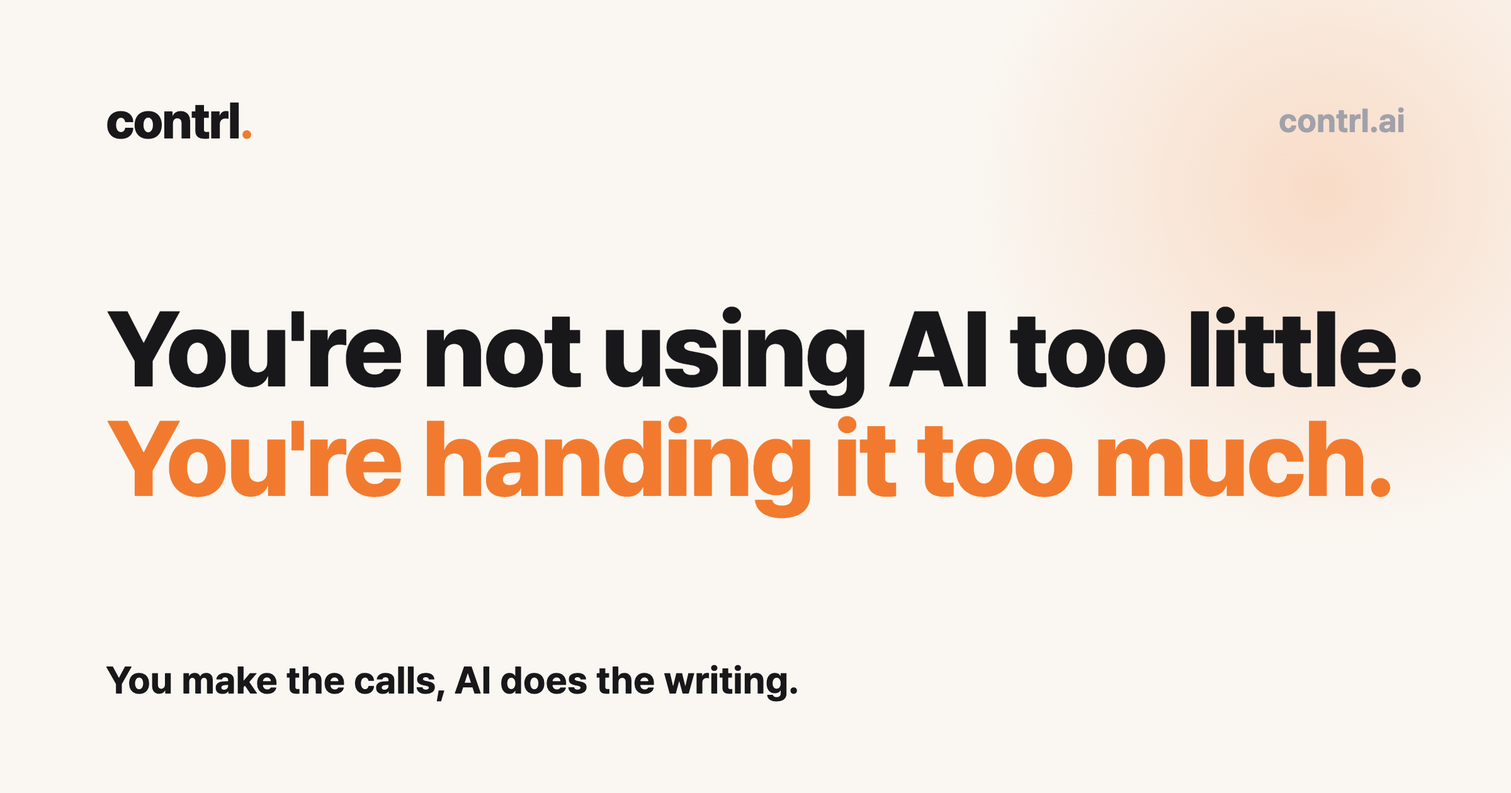
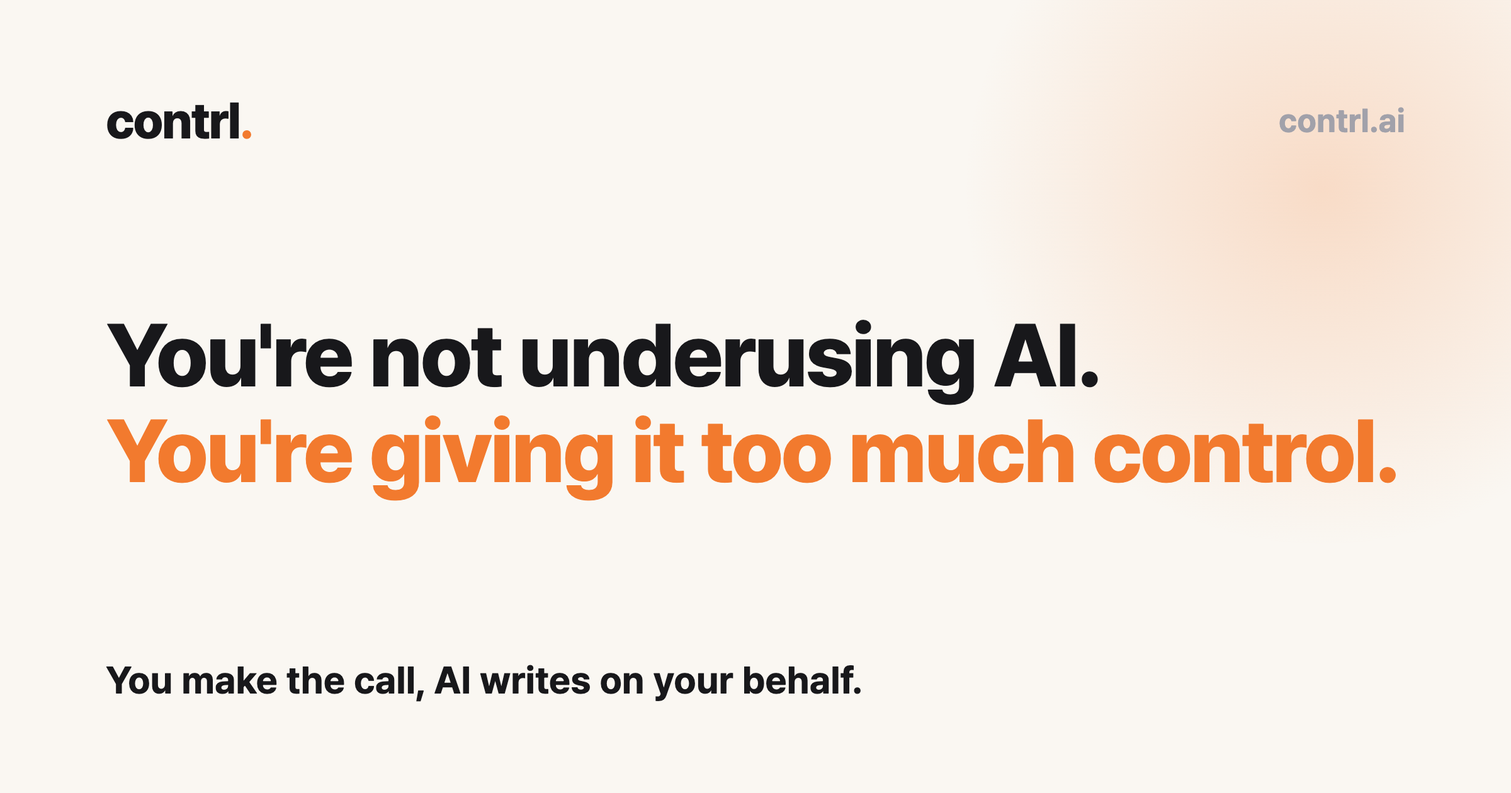
copy(en): apply Angela's English review
Hero 'You're not underusing AI. You're giving it too much control.', hero body, 'The common approach',
section title/close, card 3 title, 'Switched to a smarter model', why title/sub/close, how title + footer tag
('You make the decisions. AI writes on your behalf.'), how close, Q&A title. Page title, meta and OG card
updated to the new headline.

Changed region(s): [[0.0625, 0.3714, 0.9375, 0.65], [0.2812, 0.8357, 0.5625, 0.8976]]

diff --git a/index.html b/index.html
@@ -12,7 +12,7 @@
     </script>
     <meta charset="UTF-8">
     <meta name="viewport" content="width=device-width, initial-scale=1.0">
-    <title>contrl — AI proposals fail because you hand AI too much</title>
+    <title>contrl — You're giving AI too much control</title>
     <link rel="icon" type="image/svg+xml" href="/favicon.svg">
     <link rel="canonical" href="https://contrl.ai/">
     <link rel="alternate" hreflang="x-default" href="https://contrl.ai/">
@@ -22,18 +22,18 @@
 
     <meta property="og:type" content="website">
     <meta property="og:site_name" content="contrl">
-    <meta property="og:title" content="contrl — You're handing AI too much">
-    <meta property="og:description" content="AI proposals drift because AI fills in the decisions you should have made first. Contrl flips the order: you make the calls, AI does the writing. Join the waitlist.">
+    <meta property="og:title" content="contrl — You're giving AI too much control">
+    <meta property="og:description" content="AI proposals drift because AI fills in the decisions you should have made first. Contrl flips the order: you make the call, AI writes on your behalf. Join the waitlist.">
     <meta property="og:url" content="https://contrl.ai/">
-    <meta property="og:image" content="https://contrl.ai/og-image.png?v=2">
+    <meta property="og:image" content="https://contrl.ai/og-image.png?v=3">
     <meta property="og:image:width" content="1200">
     <meta property="og:image:height" content="630">
     <meta property="og:locale" content="en_US">
 
     <meta name="twitter:card" content="summary_large_image">
-    <meta name="twitter:title" content="contrl — You're handing AI too much">
-    <meta name="twitter:description" content="You make the calls, AI does the writing. Proposals that still carry your thinking. Join the waitlist.">
-    <meta name="twitter:image" content="https://contrl.ai/og-image.png?v=2">
+    <meta name="twitter:title" content="contrl — You're giving AI too much control">
+    <meta name="twitter:description" content="You make the call, AI writes on your behalf. Your ideas stay at the core. Join the waitlist.">
+    <meta name="twitter:image" content="https://contrl.ai/og-image.png?v=3">
 
     <script src="https://cdn.tailwindcss.com"></script>
     <script src="https://code.iconify.design/iconify-icon/2.3.0/iconify-icon.min.js"></script>
@@ -316,10 +316,10 @@
             <!-- Left: message + waitlist -->
             <div class="lg:col-span-5 hero-copy">
                 <h1 class="hero-enter hero-delay-1 display hero-h1 text-zinc-900">
-                    <span class="hero-line" data-i18n="h1a">You're not using</span>
-                    <span class="hero-line" data-i18n="h1b">AI too little.</span>
-                    <span class="hero-line text-accent" data-i18n="h1c">You're handing</span>
-                    <span class="hero-line text-accent" data-i18n="h1d">it too much.</span>
+                    <span class="hero-line" data-i18n="h1a">You're not</span>
+                    <span class="hero-line" data-i18n="h1b">underusing AI.</span>
+                    <span class="hero-line text-accent" data-i18n="h1c">You're giving it</span>
+                    <span class="hero-line text-accent" data-i18n="h1d">too much control.</span>
                 </h1>
                 <p class="hero-enter hero-delay-2 text-lg md:text-xl text-zinc-600 leading-relaxed max-w-md mb-8" data-i18n="hero_sub">
                     Most AI tools write your proposal before you've decided what it should say. Contrl flips that: <span class="font-semibold text-zinc-900">You make the calls, AI does the writing.</span>
@@ -650,8 +650,8 @@
 
     <script>
         // ---- i18n -----------------------------------------------------------------
-        const I18N = {"nav_why": {"en": "Why it fails", "ko": "왜 실패하나", "ja": "よくある課題", "zh": "为什么会失败"}, "nav_how": {"en": "How it works", "ko": "어떻게 다른가", "ja": "Contrlの特長", "zh": "如何运作"}, "nav_results": {"en": "Results", "ko": "성과", "ja": "導入事例", "zh": "成果"}, "h1a": {"en": "You're not using", "ko": "AI를 충분히", "ja": "AIを使わなすぎ", "zh": "问题不是"}, "h1b": {"en": "AI too little.", "ko": "쓰지 않아서가 아닙니다.", "ja": "ではない。", "zh": "AI用得太少，"}, "h1c": {"en": "You're handing", "ko": "오히려 너무 많이", "ja": "AIに任せすぎ", "zh": "而是交给AI的"}, "h1d": {"en": "it too much.", "ko": "내맡기는 게 문제입니다.", "ja": "なのだ。", "zh": "太多了。"}, "hero_sub": {"en": "Most AI tools write your proposal before you've decided what it should say. Contrl flips that: <span class=\"font-semibold text-zinc-900\">You make the calls, AI does the writing.</span>", "ko": "대부분의 AI 도구는 무엇을 말할지 정하기도 전에 제안서를 써 버립니다. Contrl은 순서를 뒤집습니다: <span class=\"font-semibold text-zinc-900\">사람이 정하고, AI가 씁니다.</span>", "ja": "多くのAIツールは、伝える内容が決まる前に提案書を書き始めてしまいます。Contrlはその順序を逆にしました。<span class=\"font-semibold text-zinc-900\">方針は人が決め、作成はAIが担います。</span>", "zh": "大多数AI工具在你还没想清楚要说什么之前，就把提案写完了。Contrl把顺序反过来：<span class=\"font-semibold text-zinc-900\">你来决定，AI来写。</span>"}, "join_btn": {"en": "Join the waitlist", "ko": "대기 명단 등록", "ja": "ウェイトリストに登録", "zh": "加入等候名单"}, "join_short": {"en": "Join", "ko": "등록", "ja": "登録", "zh": "加入"}, "success_long": {"en": "You're in line. Your spot number is on its way to your inbox.", "ko": "등록됐습니다. 대기 순번은 메일로 보내 드릴게요.", "ja": "登録完了。順番はメールでお知らせします。", "zh": "已加入。你的排位序号会发到邮箱。"}, "success_short": {"en": "You're in line.", "ko": "등록됐습니다.", "ja": "登録完了。", "zh": "已加入。"}, "err_email": {"en": "Please enter a valid email address.", "ko": "올바른 이메일 주소를 입력해 주세요.", "ja": "有効なメールアドレスを入力してください。", "zh": "请输入有效的邮箱地址。"}, "hero_note": {"en": "Access opens in order of signup, <span data-batch>25</span> teams a week. <button type=\"button\" class=\"wl-invite-link\" data-invite-toggle>Have an invite? Skip the line →</button>", "ko": "신청 순서대로, 매주 <span data-batch>25</span>팀씩 엽니다. <button type=\"button\" class=\"wl-invite-link\" data-invite-toggle>초대 코드가 있나요? 먼저 가입하기 →</button>", "ja": "登録順に、毎週<span data-batch>25</span>チームずつ開放します。<button type=\"button\" class=\"wl-invite-link\" data-invite-toggle>招待コードをお持ちの方はこちら →</button>", "zh": "按报名顺序开放，每周<span data-batch>25</span>个团队。<button type=\"button\" class=\"wl-invite-link\" data-invite-toggle>有邀请码？优先进入 →</button>"}, "invite_link_dark": {"en": "Have an invite? Skip the line →", "ko": "초대 코드가 있나요? 먼저 가입하기 →", "ja": "招待コードをお持ちの方はこちら →", "zh": "有邀请码？优先进入 →"}, "partners": {"en": "Startup partner of", "ko": "스타트업 파트너", "ja": "スタートアップパートナー", "zh": "创业合作伙伴"}, "bar_any": {"en": "Any AI deck generator", "ko": "범용 AI 장표 생성기", "ja": "一般的なAIスライド生成ツール", "zh": "通用AI PPT生成器"}, "fix_eyebrow": {"en": "The usual fix", "ko": "AI를 더 잘 써보려는 시도들", "ja": "AIをもっと活かそうとする試み", "zh": "把AI用得更好的尝试"}, "fix_title": {"en": "So everyone tries the same thing: <span class=\"text-accent\">more AI.</span>", "ko": "대부분 비슷하게 시도합니다: <span class=\"text-accent\">AI를 더 쓴다.</span>", "ja": "よくある対策は、どれも<span class=\"text-accent\">「AIにもっと任せる」</span>こと。", "zh": "大多数人的做法都差不多：<span class=\"text-accent\">再多用点AI。</span>"}, "fix1_t": {"en": "\"A better prompt should do it.\"", "ko": "\"프롬프트를 더 잘 짜면 되겠지.\"", "ja": "「プロンプトを工夫すればいい。」", "zh": "\"提示词写好点就行了。\""}, "fix2_t": {"en": "\"A better model should do it.\"", "ko": "\"더 좋은 모델을 쓰면 되겠지.\"", "ja": "「もっと良いモデルを使えばいい。」", "zh": "\"换个更强的模型就行了。\""}, "fix3_t": {"en": "\"All the files should be enough.\"", "ko": "\"자료를 다 넣어주면 되겠지.\"", "ja": "「資料を全部入れればいいはず。」", "zh": "\"把文件都丢进去就够了。\""}, "fix1_a": {"en": "Wrote a 400-word prompt that starts with \"You are an expert…\"", "ko": "\"너는 전문가야…\"로 시작하는 400단어짜리 프롬프트를 썼다", "ja": "「あなたは専門家です…」で始まる400字のプロンプトを書いた", "zh": "写了一段400字、以\"你是专家…\"开头的提示词"}, "fix1_b": {"en": "Saved the ones that worked as templates", "ko": "잘 나온 것을 템플릿으로 저장했다", "ja": "うまくいったものをテンプレートとして保存した", "zh": "把效果好的存成模板"}, "fix2_a": {"en": "Swapped in a smarter model when the output fell flat", "ko": "결과가 아쉬우면 더 똑똑한 모델로 바꿨다", "ja": "結果が物足りないと、より賢いモデルに切り替えた", "zh": "输出不行就换更聪明的模型"}, "fix2_b": {"en": "Upgraded to the top plan", "ko": "최상위 요금제로 올렸다", "ja": "最上位プランにアップグレードした", "zh": "升级到最高档套餐"}, "fix3_a": {"en": "Dropped in the entire project folder", "ko": "프로젝트 폴더를 통째로 넣었다", "ja": "プロジェクトフォルダを丸ごと入れた", "zh": "把整个项目文件夹都拖了进去"}, "fix3_b": {"en": "Fed it past winning bids and hoped for a repeat", "ko": "과거 낙찰 제안서를 넣고 비슷하게 나오길 기대했다", "ja": "過去の受注提案書を入れて、同じ結果を期待した", "zh": "喂给它过去中标的方案，指望它照着来"}, "fix_plan": {"en": "Change plan", "ko": "요금제 변경", "ja": "プラン変更", "zh": "更改套餐"}, "fix_upgraded": {"en": "✓ Upgraded · Top-tier model", "ko": "✓ 업그레이드됨 · 최상위 모델", "ja": "✓ アップグレード済み・最上位モデル", "zh": "✓ 已升级 · 顶级模型"}, "fix_more": {"en": "+44 more", "ko": "+44개 더", "ja": "+44件", "zh": "还有44个"}, "fix_gauge": {"en": "More than it can actually read.", "ko": "실제로 읽을 수 있는 양을 넘었습니다.", "ja": "実際に読める量を超えている。", "zh": "超出了它真正能读的量。"}, "fix_close": {"en": "Sound familiar? <span class=\"text-zinc-500 font-semibold\">Every one of these hands AI <em class=\"not-italic text-accent\">more</em>.</span>", "ko": "공감하시나요? <span class=\"text-zinc-500 font-semibold\">전부 AI에게 <em class=\"not-italic text-accent\">더</em> 맡기는 방법입니다.</span>", "ja": "心当たりはありませんか？<span class=\"text-zinc-500 font-semibold\">いずれも、AIに任せる範囲を<em class=\"not-italic text-accent\">広げる</em>方法です。</span>", "zh": "有没有同感？<span class=\"text-zinc-500 font-semibold\">每一个都是把<em class=\"not-italic text-accent\">更多</em>交给AI。</span>"}, "why_title": {"en": "AI writes the answer <span class=\"text-accent\">before you've thought about the question.</span>", "ko": "AI는 <span class=\"text-accent\">질문을 생각하기도 전에</span> 답을 써 버립니다.", "ja": "AIは<span class=\"text-accent\">問いを考える前に</span>答えを書いてしまう。", "zh": "AI在<span class=\"text-accent\">你还没想清楚问题之前</span>就写好了答案。"}, "why_sub": {"en": "Three decisions only you can make. Leave them blank, and AI fills them in.", "ko": "사람만 내려야 하는 판단이 있습니다. AI에게 맡기면 산으로 갑니다.", "ja": "提案書には、人にしか決められない3つの判断があります。ここが空白のままだと、AIが代わりに埋めてしまいます。", "zh": "有些判断只能由人来做。交给AI，就跑偏了。"}, "why1_h": {"en": "<i>1</i>Off the point", "ko": "<i>1</i>논점 이탈", "ja": "<i>1</i>論点ずれ", "zh": "<i>1</i>跑题"}, "why2_h": {"en": "<i>2</i>Generic", "ko": "<i>2</i>평이함", "ja": "<i>2</i>ありきたり", "zh": "<i>2</i>空泛"}, "why3_h": {"en": "<i>3</i>Scattered", "ko": "<i>3</i>산만함", "ja": "<i>3</i>総花的", "zh": "<i>3</i>零散"}, "why1_p": {"en": "<b>Blank:</b> what the client actually wants.<br><b>AI fills in:</b> any vendor's story.", "ko": "<b>비워 둔 것:</b> 발주처가 정말 원하는 것.<br><b>AI가 채운 것:</b> 아무 업체나 할 수 있는 이야기.", "ja": "<b>決めていないこと：</b>顧客が本当に求めているもの。<br><b>AIが書いたこと：</b>どの会社でも言える話。", "zh": "<b>空着的：</b>客户真正想要什么。<br><b>AI填的：</b>随便哪家供应商的说辞。"}, "why2_p": {"en": "<b>Blank:</b> the edge only you have.<br><b>AI fills in:</b> \"extensive experience.\"", "ko": "<b>비워 둔 것:</b> 우리만의 강점.<br><b>AI가 채운 것:</b> \"풍부한 경험.\"", "ja": "<b>決めていないこと：</b>自社だけの強み。<br><b>AIが書いたこと：</b>「豊富な経験」。", "zh": "<b>空着的：</b>只有你有的优势。<br><b>AI填的：</b>\"丰富的经验\"。"}, "why3_p": {"en": "<b>Blank:</b> the one point this slide makes.<br><b>AI fills in:</b> seven topics and a made-up 40%.", "ko": "<b>비워 둔 것:</b> 이 장이 말하는 한 가지.<br><b>AI가 채운 것:</b> 주제 일곱 개와 지어낸 40%.", "ja": "<b>決めていないこと：</b>このページが伝える一点。<br><b>AIが書いたこと：</b>7つの話題と根拠のない40%。", "zh": "<b>空着的：</b>这一页要说的那一个点。<br><b>AI填的：</b>七个主题和一个编出来的40%。"}, "why_close": {"en": "A bid runs 50–100 slides. <span class=\"text-zinc-500 font-semibold\">The more you hand off, the further it drifts.</span>", "ko": "입찰 제안서는 50–100장입니다. <span class=\"text-zinc-500 font-semibold\">더 많이 맡길수록, 더 멀리 벗어납니다.</span>", "ja": "入札提案書は50〜100ページ。<span class=\"text-zinc-500 font-semibold\">任せるほど、ずれていく。</span>", "zh": "一份投标书有50–100页。<span class=\"text-zinc-500 font-semibold\">交出去越多，偏得越远。</span>"}, "band_eyebrow": {"en": "The problem", "ko": "문제", "ja": "問題", "zh": "问题"}, "band_title": {"en": "AI fills in the proposal before anyone's thought it through.<br class=\"hidden md:block\"> So we flipped the order.", "ko": "사람이 고민하기도 전에 AI가 제안서를 채워 버립니다.<br class=\"hidden md:block\"> 그래서 순서를 뒤집었습니다.", "ja": "人が考える前に、AIが提案書を埋めてしまう。<br class=\"hidden md:block\"> だから、順序を逆にした。", "zh": "人还没想清楚，AI就把提案填满了。<br class=\"hidden md:block\"> 所以我们把顺序反过来。"}, "how_eyebrow": {"en": "How Contrl works", "ko": "Contrl은 이렇게 합니다", "ja": "Contrlの仕組み", "zh": "Contrl如何运作"}, "how_title": {"en": "<span class=\"text-accent\">You decide.</span> AI writes the rest.", "ko": "<span class=\"text-accent\">사람이 정하고,</span> 나머지는 AI가 씁니다.", "ja": "<span class=\"text-accent\">あなたが決め、</span>残りはAIが書く。", "zh": "<span class=\"text-accent\">你来决定，</span>剩下的AI来写。"}, "how_cap": {"en": "A real 100-page bid. Three decisions in chat → 17 pages written → one note rewrites page 1.", "ko": "실제 100장짜리 입찰. 채팅으로 결정 3개 → 17장 작성 → 한 줄로 1장 수정.", "ja": "実際の100ページの入札。チャットで3つ決める → 17ページ作成 → ひと言で1ページ修正。", "zh": "真实的100页投标。聊天里做3个决定 → 写出17页 → 一句话改写第1页。"}, "chk1": {"en": "<i>✓</i>What the client really wants", "ko": "<i>✓</i>발주처가 정말 원하는 것", "ja": "<i>✓</i>顧客が本当に求めるもの", "zh": "<i>✓</i>客户真正想要什么"}, "chk2": {"en": "<i>✓</i>The edge your competitors don't have", "ko": "<i>✓</i>경쟁사엔 없는 우리만의 강점", "ja": "<i>✓</i>競合にはない自社の強み", "zh": "<i>✓</i>对手没有的优势"}, "chk3": {"en": "<i>✓</i>The one point each slide makes", "ko": "<i>✓</i>장마다 전달할 한마디", "ja": "<i>✓</i>各ページが伝える一点", "zh": "<i>✓</i>每一页要说的那一个点"}, "how_close": {"en": "Every slide AI wrote still carries <span class=\"text-accent\">your thinking.</span>", "ko": "AI가 쓴 장표에도 <span class=\"text-accent\">사람의 고민</span>이 남습니다.", "ja": "AIが書いたページにも<span class=\"text-accent\">あなたの考え</span>が残る。", "zh": "AI写的每一页，依然带着<span class=\"text-accent\">你的思考。</span>"}, "qa_eyebrow": {"en": "On presentation day", "ko": "발표장에서", "ja": "発表の場で", "zh": "答辩现场"}, "qa_title": {"en": "You decided it. So you can <span class=\"text-accent\">say it in your own words.</span>", "ko": "직접 정한 것이니, <span class=\"text-accent\">내 생각 그대로 말하면 됩니다.</span>", "ja": "自分で決めたから、<span class=\"text-accent\">自分の言葉でそのまま話せる。</span>", "zh": "是你定的，所以<span class=\"text-accent\">用自己的话讲就行。</span>"}, "qa_sub": {"en": "No cramming your own proposal the night before. Every slide carries a decision you made — when the evaluator asks, the answer is already yours.", "ko": "발표 전날 자기 제안서를 다시 공부할 필요가 없습니다. 장마다 내가 내린 판단이 들어 있으니, 평가위원이 물으면 그 판단을 그대로 말하면 됩니다.", "ja": "前夜に自分の提案書を読み直す必要はない。どのページにも自分の判断が入っているから、審査員に聞かれたら、その判断をそのまま話せばいい。", "zh": "不用在前一晚临时抱佛脚。每一页都带着你做过的判断——评审一问，答案本来就是你的。"}, "qa_ask": {"en": "Evaluator asks", "ko": "평가위원", "ja": "審査員", "zh": "评审问"}, "qa_ans": {"en": "You answer", "ko": "발표자", "ja": "発表者", "zh": "你答"}, "qa1_q": {"en": "\"Why is this approach right for our project?\"", "ko": "\"왜 이 방식이 우리 사업에 맞습니까?\"", "ja": "「なぜこの方式が私たちの事業に合うのですか？」", "zh": "\"为什么这个方案适合我们的项目？\""}, "qa1_a": {"en": "\"You had two outages last year. That's why we lead with zero-downtime operations.\"", "ko": "\"작년에 운영 중단이 두 번 있었습니다. 그래서 무중단 운영부터 제안했습니다.\"", "ja": "「昨年、システム停止が2回ありました。だから無停止運用を最初に据えています。」", "zh": "\"去年你们停机了两次。所以我们把零停机运维放在最前面。\""}, "qa1_s": {"en": "← The win theme you set", "ko": "← 직접 정한 Win Theme", "ja": "← あなたが決めたWin Theme", "zh": "← 你定的Win Theme"}, "qa2_q": {"en": "\"What makes you different from the other bidders?\"", "ko": "\"다른 회사와 뭐가 다릅니까?\"", "ja": "「他社と何が違うのですか？」", "zh": "\"你们和其他投标方有什么不同？\""}, "qa2_a": {"en": "\"We've run three systems like this with zero downtime. Same playbook here.\"", "ko": "\"동종 시스템 3건을 무중단으로 운영했습니다. 그 방식 그대로 가져옵니다.\"", "ja": "「同種のシステム3件を無停止で運用しました。今回も同じ体制で臨みます。」", "zh": "\"我们已经零停机运营过三个同类系统。这里用同一套打法。\""}, "qa2_s": {"en": "← The track record you picked", "ko": "← 직접 고른 실적", "ja": "← あなたが選んだ実績", "zh": "← 你挑的业绩"}, "qa3_q": {"en": "\"In one sentence: what do we get?\"", "ko": "\"한마디로, 우리가 얻는 게 뭡니까?\"", "ja": "「一言で言うと、私たちは何を得られますか？」", "zh": "\"一句话：我们能得到什么？\""}, "qa3_a": {"en": "\"30% fewer people to run it.\"", "ko": "\"운영 인력 30% 절감입니다.\"", "ja": "「運用人員を30%削減できます。」", "zh": "\"运维人力减少30%。\""}, "qa3_s": {"en": "← The one point you gave that slide", "ko": "← 그 장에 직접 정한 한마디", "ja": "← そのページに決めた一点", "zh": "← 你给那一页定的那一个点"}, "case_eyebrow": {"en": "Case study", "ko": "도입 사례", "ja": "導入事例", "zh": "客户案例"}, "case_title": {"en": "<span class=\"text-accent\">59%</span> more contract value in four quarters.", "ko": "도입 후 4개 분기 만에 수주 금액 <span class=\"text-accent\">59%</span> 증가.", "ja": "導入後4四半期で受注金額<span class=\"text-accent\">59%</span>増。", "zh": "四个季度内合同金额增长<span class=\"text-accent\">59%</span>。"}, "case_p": {"en": "The four quarters after rollout (Q3 2025–Q2 2026) vs. the same quarters a year earlier, from their bid dashboard. They bid more, focused on the ones they could win, and both win rate and contract value climbed.", "ko": "도입 후 4개 분기(2025 Q3–2026 Q2)를 전년 같은 분기와 비교, 입찰 실적 대시보드 기준. 더 많이 투찰하고 이길 수 있는 건에 집중해 승률과 수주 금액이 함께 올랐습니다.", "ja": "導入後の4四半期（2025年Q3〜2026年Q2）を前年同期と比較。より多く入札し、勝てる案件に集中した結果、勝率と受注金額がともに上昇。※同社の入札管理ダッシュボードのデータに基づく", "zh": "上线后四个季度（2025 Q3–2026 Q2）与上年同期对比，数据来自其投标看板。投得更多、专注能赢的标，中标率和合同金额一起上升。"}, "case_note": {"en": "Named top project at Company T's internal \"Sales Guru\" showcase and held up company-wide as the flagship AI case. <span class=\"text-zinc-400\">(Platum, Aug 2025)</span>", "ko": "T사 사내 세일즈 박람회 \"Sales Guru\"에서 전체 프로젝트 1위, 전사 AI 혁신 대표 사례로 소개. <span class=\"text-zinc-400\">(플래텀, 2025.08)</span>", "ja": "T社の社内セールス発表会「Sales Guru」で全プロジェクト1位、全社のAI活用代表事例として紹介。<span class=\"text-zinc-400\">（Platum、2025年8月）</span>", "zh": "在T公司内部\"Sales Guru\"销售展示会上获评第一，并作为全公司AI标杆案例推广。<span class=\"text-zinc-400\">（Platum，2025年8月）</span>"}, "k1": {"en": "Bids submitted", "ko": "투찰 건수", "ja": "入札件数", "zh": "投标数"}, "k2": {"en": "Bids won", "ko": "낙찰 건수", "ja": "受注件数", "zh": "中标数"}, "k3": {"en": "Win rate", "ko": "승률", "ja": "勝率", "zh": "中标率"}, "k4": {"en": "Contract value", "ko": "수주 금액", "ja": "受注金額", "zh": "合同金额"}, "k4s": {"en": "Four quarters vs. prior year", "ko": "4개 분기, 전년 대비", "ja": "4四半期、前年比", "zh": "四个季度，同比"}, "join_eyebrow": {"en": "Early access", "ko": "얼리 액세스", "ja": "アーリーアクセス", "zh": "抢先体验"}, "join_title": {"en": "Access opens in order.<br>Get in line early.", "ko": "신청 순서대로 초대드립니다.<br>지금 바로 이메일 입력해주세요", "ja": "登録順にご招待します。<br>今すぐメールアドレスをご登録ください。", "zh": "按报名顺序邀请。<br>现在就填上邮箱。"}, "join_sub": {"en": "We open <span data-batch>25</span> seats a week, first come first served. Members get 3 invites — an invite moves you to the front.", "ko": "매주 <span data-batch>25</span>분께 선착순으로 초대드립니다. 가입하신 뒤 추가 초대장 3장을 드립니다.", "ja": "毎週<span data-batch>25</span>チームずつ、先着順にご案内します。ご利用開始後、同僚の方を招待できる招待コードを3つお送りします。", "zh": "每周按先后顺序邀请<span data-batch>25</span>位。加入后，再送你3张邀请函。"}, "faq1_q": {"en": "Will it match our design?", "ko": "우리 회사 디자인 그대로 나오나요?", "ja": "自社のデザインで出力されますか？", "zh": "会用我们自己的设计吗？"}, "faq1_a": {"en": "Yes. Contrl builds on your existing design system — the layouts, diagrams, and language from your past proposals — and exports to PowerPoint (.pptx). Every page comes with speaker notes and source citations.", "ko": "네. 과거 제안서의 레이아웃·도식·표현을 그대로 쓰는 디자인 시스템 위에서 만들고, PowerPoint(.pptx)로 내보냅니다. 장마다 발표 스크립트와 근거 출처가 함께 나옵니다.", "ja": "はい。過去の提案書のレイアウト・図・表現を活かした自社デザインシステムで作成し、PowerPoint（.pptx）で出力します。各ページに発表者ノートと出典（根拠資料）が付きます。", "zh": "是的。Contrl基于你们现有的设计系统——过往提案的版式、图表和用语——并导出为PowerPoint（.pptx）。每一页都附带讲稿和资料来源。"}, "faq2_q": {"en": "What about our data?", "ko": "데이터 보안은요?", "ja": "データの取り扱いは安全ですか？", "zh": "我们的数据安全吗？"}, "faq2_a": {"en": "Your files never leave your machine. Nothing gets uploaded to the cloud, and nothing about your proposals is shared outside your company.", "ko": "파일은 사용자 컴퓨터를 벗어나지 않습니다. 클라우드에 올라가지 않고, 제안서 내용이 회사 밖으로 나가지 않습니다.", "ja": "ファイルがお使いのPCの外に出ることはありません。クラウドにアップロードされず、提案内容が社外に共有されることもありません。", "zh": "你的文件不会离开你的电脑。不上传云端，提案内容也不会被分享到公司之外。"}, "faq3_q": {"en": "Who's this for?", "ko": "누구를 위한 제품인가요?", "ja": "どのような方に向いていますか？", "zh": "这是给谁用的？"}, "faq3_a": {"en": "Anyone who writes bids and proposals — especially the team lead who ends up rewriting whatever AI (or the new hire) produced. You make the calls. Contrl does the writing.", "ko": "입찰 제안서를 쓰는 누구나. 특히 AI나 신입이 만든 걸 결국 다시 쓰게 되는 팀장님께 맞습니다. 결정은 사람이, 작성은 Contrl이 합니다.", "ja": "入札・提案書を書くすべての人へ。特に、AIや新人が作ったものを結局書き直すことになるチームリーダーに。決めるのはあなた、書くのはContrl。", "zh": "所有写标书和提案的人——尤其是那个最后得把AI（或新人）写的东西重写一遍的团队负责人。你做决定，Contrl来写。"}, "faq4_q": {"en": "When does access open?", "ko": "언제 쓸 수 있나요?", "ja": "いつから利用できますか？", "zh": "什么时候能用？"}, "faq4_a": {"en": "In order of signup, <span data-batch>25</span> teams a week. You'll get your spot number when you join and an email when your seat opens. If someone inside sends you an invite, you move to the front.", "ko": "신청 순서대로 매주 <span data-batch>25</span>팀씩 엽니다. 등록하면 순번을 받고, 자리가 열리면 메일로 알려 드립니다. 이미 쓰고 있는 멤버가 초대하면 맨 앞으로 갑니다.", "ja": "登録順に毎週<span data-batch>25</span>チームずつ開放します。登録時に順番をお知らせし、ご案内の準備が整い次第、メールでお知らせします。利用中のメンバーから招待があれば、優先的にご案内します。", "zh": "按报名顺序，每周<span data-batch>25</span>个团队。加入时会告诉你排位序号，名额开放时发邮件通知。如果有内部成员邀请你，就直接排到最前面。"}, "footer_tag": {"en": "You decide. AI writes the rest.", "ko": "사람이 정하고, 나머지는 AI가 씁니다.", "ja": "あなたが決め、残りはAIが書く。", "zh": "你来决定，剩下的AI来写。"}, "ph_email": {"en": "Email", "ko": "이메일", "ja": "メールアドレス", "zh": "邮箱"}, "ph_invite": {"en": "Invite code", "ko": "초대 코드", "ja": "招待コード", "zh": "邀请码"}, "fix_prompt": {"en": "You are a proposal PM with |20 years| of experience. Cover every evaluation criterion and write |50 slides| with tables and diagrams…", "ko": "너는 |20년 차| 제안 PM이야. 평가항목을 빠짐없이 반영해서, 표와 도식을 넣어 |50장|으로 써 줘…", "ja": "あなたは|20年|のキャリアを持つ提案PMです。評価項目をすべて反映し、表と図を入れて|50ページ|で書いてください…", "zh": "你是一位有|20年|经验的提案PM。覆盖所有评分项，加上表格和图表，写|50页|…"}, "err_generic": {"en": "Something went wrong. Please try again in a moment.", "ko": "문제가 생겼습니다. 잠시 후 다시 시도해 주세요.", "ja": "エラーが発生しました。しばらくしてからもう一度お試しください。", "zh": "出了点问题，请稍后再试。"}, "success_pos": {"en": "You're #{n} in line.", "ko": "대기 명단 {n}번째로 등록됐습니다.", "ja": "ウェイトリスト{n}番目に登録されました。", "zh": "你已加入等候名单，排在第{n}位。"}, "success_inv": {"en": "Your invite moved you to the front.", "ko": "초대 덕분에 맨 앞으로 왔습니다.", "ja": "招待により最前列に移動しました。", "zh": "邀请让你直接排到了最前面。"}, "success_mail": {"en": "Confirmation sent to your inbox.", "ko": "확인 메일을 보내 드렸습니다.", "ja": "確認メールをお送りしました。", "zh": "确认邮件已发送到你的邮箱。"}, "invite_check": {"en": "Check", "ko": "확인", "ja": "確認", "zh": "验证"}, "invite_empty": {"en": "Enter an invite code first.", "ko": "초대 코드를 입력해 주세요.", "ja": "招待コードを入力してください。", "zh": "请先输入邀请码。"}, "invite_none": {"en": "That code isn't recognized. You can still join the regular line.", "ko": "등록된 코드가 아닙니다. 일반 순번으로는 바로 등록할 수 있습니다.", "ja": "登録されていないコードです。通常の順番でご登録いただけます。", "zh": "未找到该邀请码。你仍可按正常顺序加入。"}, "invite_ok": {"en": "Invite accepted — you'll go to the front of the line.", "ko": "유효한 초대 코드입니다. 맨 앞으로 들어갑니다.", "ja": "有効な招待コードです。最前列に入ります。", "zh": "邀请码有效，你将排到最前面。"}, "invite_ignored": {"en": "(The invite code wasn't recognized, so you're in the regular line.)", "ko": "(초대 코드는 등록된 것이 아니라 일반 순번입니다.)", "ja": "（招待コードが無効のため通常の順番です。）", "zh": "（邀请码无效，按正常顺序排队。）"}, "success_dup": {"en": "This email is already on the list — you're #{n}.", "ko": "이미 등록된 이메일입니다. 현재 순번은 {n}번입니다.", "ja": "このメールアドレスは登録済みです。現在の順番は{n}番です。", "zh": "这个邮箱已经在名单上了——你排在第{n}位。"}, "qa_bridge": {"en": "And that thinking walks into the room with you.", "ko": "그 고민이 발표장까지 그대로 따라갑니다.", "ja": "だから、プレゼンでも自分の言葉で説明できます。", "zh": "这些思考，会跟你一起走进答辩现场。"}, "case_company": {"en": "Company T · global scientific instruments", "ko": "T사 · 글로벌 과학기기 기업", "ja": "T社・グローバル科学機器メーカー", "zh": "T公司 · 全球科学仪器企业"}};
-        const META = {"en": {"title": "contrl — You're handing AI too much", "desc": "AI proposals drift because AI fills in the three decisions you should have made first. Contrl flips the order: you decide, AI writes the rest. Join the waitlist."}, "ko": {"title": "contrl — AI에게 너무 많이 맡기고 있습니다", "desc": "사람이 정했어야 할 세 가지를 AI가 먼저 채우니 제안서가 산으로 갑니다. Contrl은 순서를 뒤집습니다: 사람이 정하고, AI가 씁니다. 대기 명단에 등록하세요."}, "ja": {"title": "【公式】Contrl（コントロール）｜判断は人、作成はAIの提案書作成AI", "desc": "Contrlは、提案の方針を担当者が決め、AIが提案書を書き上げる提案書作成AIです。PowerPoint形式で出力。現在、先行登録を受付中です。"}, "zh": {"title": "contrl — 你把太多交给了AI", "desc": "本该由你做的三个决定，AI先替你填了，提案就跑偏了。Contrl反过来：你来决定，AI来写。加入等候名单。"}};
+        const I18N = {"nav_why": {"en": "Why it fails", "ko": "왜 실패하나", "ja": "よくある課題", "zh": "为什么会失败"}, "nav_how": {"en": "How it works", "ko": "어떻게 다른가", "ja": "Contrlの特長", "zh": "如何运作"}, "nav_results": {"en": "Results", "ko": "성과", "ja": "導入事例", "zh": "成果"}, "h1a": {"en": "You're not", "ko": "AI를 충분히", "ja": "AIを使わなすぎ", "zh": "问题不是"}, "h1b": {"en": "underusing AI.", "ko": "쓰지 않아서가 아닙니다.", "ja": "ではない。", "zh": "AI用得太少，"}, "h1c": {"en": "You're giving it", "ko": "오히려 너무 많이", "ja": "AIに任せすぎ", "zh": "而是交给AI的"}, "h1d": {"en": "too much control.", "ko": "내맡기는 게 문제입니다.", "ja": "なのだ。", "zh": "太多了。"}, "hero_sub": {"en": "Most AI tools write your proposal even before you've decided what to say. Contrl flips the order: <span class=\"font-semibold text-zinc-900\">You make the call, AI writes on your behalf.</span>", "ko": "대부분의 AI 도구는 무엇을 말할지 정하기도 전에 제안서를 써 버립니다. Contrl은 순서를 뒤집습니다: <span class=\"font-semibold text-zinc-900\">사람이 정하고, AI가 씁니다.</span>", "ja": "多くのAIツールは、伝える内容が決まる前に提案書を書き始めてしまいます。Contrlはその順序を逆にしました。<span class=\"font-semibold text-zinc-900\">方針は人が決め、作成はAIが担います。</span>", "zh": "大多数AI工具在你还没想清楚要说什么之前，就把提案写完了。Contrl把顺序反过来：<span class=\"font-semibold text-zinc-900\">你来决定，AI来写。</span>"}, "join_btn": {"en": "Join the waitlist", "ko": "대기 명단 등록", "ja": "ウェイトリストに登録", "zh": "加入等候名单"}, "join_short": {"en": "Join", "ko": "등록", "ja": "登録", "zh": "加入"}, "success_long": {"en": "You're in line. Your spot number is on its way to your inbox.", "ko": "등록됐습니다. 대기 순번은 메일로 보내 드릴게요.", "ja": "登録完了。順番はメールでお知らせします。", "zh": "已加入。你的排位序号会发到邮箱。"}, "success_short": {"en": "You're in line.", "ko": "등록됐습니다.", "ja": "登録完了。", "zh": "已加入。"}, "err_email": {"en": "Please enter a valid email address.", "ko": "올바른 이메일 주소를 입력해 주세요.", "ja": "有効なメールアドレスを入力してください。", "zh": "请输入有效的邮箱地址。"}, "hero_note": {"en": "Access opens in order of signup, <span data-batch>25</span> teams a week. <button type=\"button\" class=\"wl-invite-link\" data-invite-toggle>Have an invite? Skip the line →</button>", "ko": "신청 순서대로, 매주 <span data-batch>25</span>팀씩 엽니다. <button type=\"button\" class=\"wl-invite-link\" data-invite-toggle>초대 코드가 있나요? 먼저 가입하기 →</button>", "ja": "登録順に、毎週<span data-batch>25</span>チームずつ開放します。<button type=\"button\" class=\"wl-invite-link\" data-invite-toggle>招待コードをお持ちの方はこちら →</button>", "zh": "按报名顺序开放，每周<span data-batch>25</span>个团队。<button type=\"button\" class=\"wl-invite-link\" data-invite-toggle>有邀请码？优先进入 →</button>"}, "invite_link_dark": {"en": "Have an invite? Skip the line →", "ko": "초대 코드가 있나요? 먼저 가입하기 →", "ja": "招待コードをお持ちの方はこちら →", "zh": "有邀请码？优先进入 →"}, "partners": {"en": "Startup partner of", "ko": "스타트업 파트너", "ja": "スタートアップパートナー", "zh": "创业合作伙伴"}, "bar_any": {"en": "Any AI deck generator", "ko": "범용 AI 장표 생성기", "ja": "一般的なAIスライド生成ツール", "zh": "通用AI PPT生成器"}, "fix_eyebrow": {"en": "The common approach", "ko": "AI를 더 잘 써보려는 시도들", "ja": "AIをもっと活かそうとする試み", "zh": "把AI用得更好的尝试"}, "fix_title": {"en": "Most people try the same thing: <span class=\"text-accent\">more AI.</span>", "ko": "대부분 비슷하게 시도합니다: <span class=\"text-accent\">AI를 더 쓴다.</span>", "ja": "よくある対策は、どれも<span class=\"text-accent\">「AIにもっと任せる」</span>こと。", "zh": "大多数人的做法都差不多：<span class=\"text-accent\">再多用点AI。</span>"}, "fix1_t": {"en": "\"A better prompt should do it.\"", "ko": "\"프롬프트를 더 잘 짜면 되겠지.\"", "ja": "「プロンプトを工夫すればいい。」", "zh": "\"提示词写好点就行了。\""}, "fix2_t": {"en": "\"A better model should do it.\"", "ko": "\"더 좋은 모델을 쓰면 되겠지.\"", "ja": "「もっと良いモデルを使えばいい。」", "zh": "\"换个更强的模型就行了。\""}, "fix3_t": {"en": "\"Handing it the full set of materials should do it.\"", "ko": "\"자료를 다 넣어주면 되겠지.\"", "ja": "「資料を全部入れればいいはず。」", "zh": "\"把文件都丢进去就够了。\""}, "fix1_a": {"en": "Wrote a 400-word prompt that starts with \"You are an expert…\"", "ko": "\"너는 전문가야…\"로 시작하는 400단어짜리 프롬프트를 썼다", "ja": "「あなたは専門家です…」で始まる400字のプロンプトを書いた", "zh": "写了一段400字、以\"你是专家…\"开头的提示词"}, "fix1_b": {"en": "Saved the ones that worked as templates", "ko": "잘 나온 것을 템플릿으로 저장했다", "ja": "うまくいったものをテンプレートとして保存した", "zh": "把效果好的存成模板"}, "fix2_a": {"en": "Switched to a smarter model when the output fell flat", "ko": "결과가 아쉬우면 더 똑똑한 모델로 바꿨다", "ja": "結果が物足りないと、より賢いモデルに切り替えた", "zh": "输出不行就换更聪明的模型"}, "fix2_b": {"en": "Upgraded to the top plan", "ko": "최상위 요금제로 올렸다", "ja": "最上位プランにアップグレードした", "zh": "升级到最高档套餐"}, "fix3_a": {"en": "Dropped in the entire project folder", "ko": "프로젝트 폴더를 통째로 넣었다", "ja": "プロジェクトフォルダを丸ごと入れた", "zh": "把整个项目文件夹都拖了进去"}, "fix3_b": {"en": "Fed it past winning bids and hoped for a repeat", "ko": "과거 낙찰 제안서를 넣고 비슷하게 나오길 기대했다", "ja": "過去の受注提案書を入れて、同じ結果を期待した", "zh": "喂给它过去中标的方案，指望它照着来"}, "fix_plan": {"en": "Change plan", "ko": "요금제 변경", "ja": "プラン変更", "zh": "更改套餐"}, "fix_upgraded": {"en": "✓ Upgraded · Top-tier model", "ko": "✓ 업그레이드됨 · 최상위 모델", "ja": "✓ アップグレード済み・最上位モデル", "zh": "✓ 已升级 · 顶级模型"}, "fix_more": {"en": "+44 more", "ko": "+44개 더", "ja": "+44件", "zh": "还有44个"}, "fix_gauge": {"en": "More than it can actually read.", "ko": "실제로 읽을 수 있는 양을 넘었습니다.", "ja": "実際に読める量を超えている。", "zh": "超出了它真正能读的量。"}, "fix_close": {"en": "Sound familiar? <span class=\"text-zinc-500 font-semibold\">You've been giving AI <em class=\"not-italic text-accent\">too much control</em>.</span>", "ko": "공감하시나요? <span class=\"text-zinc-500 font-semibold\">전부 AI에게 <em class=\"not-italic text-accent\">더</em> 맡기는 방법입니다.</span>", "ja": "心当たりはありませんか？<span class=\"text-zinc-500 font-semibold\">いずれも、AIに任せる範囲を<em class=\"not-italic text-accent\">広げる</em>方法です。</span>", "zh": "有没有同感？<span class=\"text-zinc-500 font-semibold\">每一个都是把<em class=\"not-italic text-accent\">更多</em>交给AI。</span>"}, "why_title": {"en": "AI jumps straight to the answer <span class=\"text-accent\">without thinking about the question.</span>", "ko": "AI는 <span class=\"text-accent\">질문을 생각하기도 전에</span> 답을 써 버립니다.", "ja": "AIは<span class=\"text-accent\">問いを考える前に</span>答えを書いてしまう。", "zh": "AI在<span class=\"text-accent\">你还没想清楚问题之前</span>就写好了答案。"}, "why_sub": {"en": "Three decisions only you can make. Without your input, AI goes off on a tangent.", "ko": "사람만 내려야 하는 판단이 있습니다. AI에게 맡기면 산으로 갑니다.", "ja": "提案書には、人にしか決められない3つの判断があります。ここが空白のままだと、AIが代わりに埋めてしまいます。", "zh": "有些判断只能由人来做。交给AI，就跑偏了。"}, "why1_h": {"en": "<i>1</i>Off the point", "ko": "<i>1</i>논점 이탈", "ja": "<i>1</i>論点ずれ", "zh": "<i>1</i>跑题"}, "why2_h": {"en": "<i>2</i>Generic", "ko": "<i>2</i>평이함", "ja": "<i>2</i>ありきたり", "zh": "<i>2</i>空泛"}, "why3_h": {"en": "<i>3</i>Scattered", "ko": "<i>3</i>산만함", "ja": "<i>3</i>総花的", "zh": "<i>3</i>零散"}, "why1_p": {"en": "<b>Blank:</b> what the client actually wants.<br><b>AI fills in:</b> any vendor's story.", "ko": "<b>비워 둔 것:</b> 발주처가 정말 원하는 것.<br><b>AI가 채운 것:</b> 아무 업체나 할 수 있는 이야기.", "ja": "<b>決めていないこと：</b>顧客が本当に求めているもの。<br><b>AIが書いたこと：</b>どの会社でも言える話。", "zh": "<b>空着的：</b>客户真正想要什么。<br><b>AI填的：</b>随便哪家供应商的说辞。"}, "why2_p": {"en": "<b>Blank:</b> the edge only you have.<br><b>AI fills in:</b> \"extensive experience.\"", "ko": "<b>비워 둔 것:</b> 우리만의 강점.<br><b>AI가 채운 것:</b> \"풍부한 경험.\"", "ja": "<b>決めていないこと：</b>自社だけの強み。<br><b>AIが書いたこと：</b>「豊富な経験」。", "zh": "<b>空着的：</b>只有你有的优势。<br><b>AI填的：</b>\"丰富的经验\"。"}, "why3_p": {"en": "<b>Blank:</b> the one point this slide makes.<br><b>AI fills in:</b> seven topics and a made-up 40%.", "ko": "<b>비워 둔 것:</b> 이 장이 말하는 한 가지.<br><b>AI가 채운 것:</b> 주제 일곱 개와 지어낸 40%.", "ja": "<b>決めていないこと：</b>このページが伝える一点。<br><b>AIが書いたこと：</b>7つの話題と根拠のない40%。", "zh": "<b>空着的：</b>这一页要说的那一个点。<br><b>AI填的：</b>七个主题和一个编出来的40%。"}, "why_close": {"en": "A bid runs 50–100 slides. <span class=\"text-zinc-500 font-semibold\">The more you hand over, the further it drifts.</span>", "ko": "입찰 제안서는 50–100장입니다. <span class=\"text-zinc-500 font-semibold\">더 많이 맡길수록, 더 멀리 벗어납니다.</span>", "ja": "入札提案書は50〜100ページ。<span class=\"text-zinc-500 font-semibold\">任せるほど、ずれていく。</span>", "zh": "一份投标书有50–100页。<span class=\"text-zinc-500 font-semibold\">交出去越多，偏得越远。</span>"}, "band_eyebrow": {"en": "The problem", "ko": "문제", "ja": "問題", "zh": "问题"}, "band_title": {"en": "AI fills in the proposal before anyone's thought it through.<br class=\"hidden md:block\"> So we flipped the order.", "ko": "사람이 고민하기도 전에 AI가 제안서를 채워 버립니다.<br class=\"hidden md:block\"> 그래서 순서를 뒤집었습니다.", "ja": "人が考える前に、AIが提案書を埋めてしまう。<br class=\"hidden md:block\"> だから、順序を逆にした。", "zh": "人还没想清楚，AI就把提案填满了。<br class=\"hidden md:block\"> 所以我们把顺序反过来。"}, "how_eyebrow": {"en": "How Contrl works", "ko": "Contrl은 이렇게 합니다", "ja": "Contrlの仕組み", "zh": "Contrl如何运作"}, "how_title": {"en": "<span class=\"text-accent\">You make the decisions.</span> AI writes on your behalf.", "ko": "<span class=\"text-accent\">사람이 정하고,</span> 나머지는 AI가 씁니다.", "ja": "<span class=\"text-accent\">あなたが決め、</span>残りはAIが書く。", "zh": "<span class=\"text-accent\">你来决定，</span>剩下的AI来写。"}, "how_cap": {"en": "A real 100-page bid. Three decisions in chat → 17 pages written → one note rewrites page 1.", "ko": "실제 100장짜리 입찰. 채팅으로 결정 3개 → 17장 작성 → 한 줄로 1장 수정.", "ja": "実際の100ページの入札。チャットで3つ決める → 17ページ作成 → ひと言で1ページ修正。", "zh": "真实的100页投标。聊天里做3个决定 → 写出17页 → 一句话改写第1页。"}, "chk1": {"en": "<i>✓</i>What the client really wants", "ko": "<i>✓</i>발주처가 정말 원하는 것", "ja": "<i>✓</i>顧客が本当に求めるもの", "zh": "<i>✓</i>客户真正想要什么"}, "chk2": {"en": "<i>✓</i>The edge your competitors don't have", "ko": "<i>✓</i>경쟁사엔 없는 우리만의 강점", "ja": "<i>✓</i>競合にはない自社の強み", "zh": "<i>✓</i>对手没有的优势"}, "chk3": {"en": "<i>✓</i>The one point each slide makes", "ko": "<i>✓</i>장마다 전달할 한마디", "ja": "<i>✓</i>各ページが伝える一点", "zh": "<i>✓</i>每一页要说的那一个点"}, "how_close": {"en": "AI writes the slides, but <span class=\"text-accent\">your ideas remain at the core.</span>", "ko": "AI가 쓴 장표에도 <span class=\"text-accent\">사람의 고민</span>이 남습니다.", "ja": "AIが書いたページにも<span class=\"text-accent\">あなたの考え</span>が残る。", "zh": "AI写的每一页，依然带着<span class=\"text-accent\">你的思考。</span>"}, "qa_eyebrow": {"en": "On presentation day", "ko": "발표장에서", "ja": "発表の場で", "zh": "答辩现场"}, "qa_title": {"en": "You made the decisions, so you can <span class=\"text-accent\">answer in your own words.</span>", "ko": "직접 정한 것이니, <span class=\"text-accent\">내 생각 그대로 말하면 됩니다.</span>", "ja": "自分で決めたから、<span class=\"text-accent\">自分の言葉でそのまま話せる。</span>", "zh": "是你定的，所以<span class=\"text-accent\">用自己的话讲就行。</span>"}, "qa_sub": {"en": "No cramming your own proposal the night before. Every slide carries a decision you made — when the evaluator asks, the answer is already yours.", "ko": "발표 전날 자기 제안서를 다시 공부할 필요가 없습니다. 장마다 내가 내린 판단이 들어 있으니, 평가위원이 물으면 그 판단을 그대로 말하면 됩니다.", "ja": "前夜に自分の提案書を読み直す必要はない。どのページにも自分の判断が入っているから、審査員に聞かれたら、その判断をそのまま話せばいい。", "zh": "不用在前一晚临时抱佛脚。每一页都带着你做过的判断——评审一问，答案本来就是你的。"}, "qa_ask": {"en": "Evaluator asks", "ko": "평가위원", "ja": "審査員", "zh": "评审问"}, "qa_ans": {"en": "You answer", "ko": "발표자", "ja": "発表者", "zh": "你答"}, "qa1_q": {"en": "\"Why is this approach right for our project?\"", "ko": "\"왜 이 방식이 우리 사업에 맞습니까?\"", "ja": "「なぜこの方式が私たちの事業に合うのですか？」", "zh": "\"为什么这个方案适合我们的项目？\""}, "qa1_a": {"en": "\"You had two outages last year. That's why we lead with zero-downtime operations.\"", "ko": "\"작년에 운영 중단이 두 번 있었습니다. 그래서 무중단 운영부터 제안했습니다.\"", "ja": "「昨年、システム停止が2回ありました。だから無停止運用を最初に据えています。」", "zh": "\"去年你们停机了两次。所以我们把零停机运维放在最前面。\""}, "qa1_s": {"en": "← The win theme you set", "ko": "← 직접 정한 Win Theme", "ja": "← あなたが決めたWin Theme", "zh": "← 你定的Win Theme"}, "qa2_q": {"en": "\"What makes you different from the other bidders?\"", "ko": "\"다른 회사와 뭐가 다릅니까?\"", "ja": "「他社と何が違うのですか？」", "zh": "\"你们和其他投标方有什么不同？\""}, "qa2_a": {"en": "\"We've run three systems like this with zero downtime. Same playbook here.\"", "ko": "\"동종 시스템 3건을 무중단으로 운영했습니다. 그 방식 그대로 가져옵니다.\"", "ja": "「同種のシステム3件を無停止で運用しました。今回も同じ体制で臨みます。」", "zh": "\"我们已经零停机运营过三个同类系统。这里用同一套打法。\""}, "qa2_s": {"en": "← The track record you picked", "ko": "← 직접 고른 실적", "ja": "← あなたが選んだ実績", "zh": "← 你挑的业绩"}, "qa3_q": {"en": "\"In one sentence: what do we get?\"", "ko": "\"한마디로, 우리가 얻는 게 뭡니까?\"", "ja": "「一言で言うと、私たちは何を得られますか？」", "zh": "\"一句话：我们能得到什么？\""}, "qa3_a": {"en": "\"30% fewer people to run it.\"", "ko": "\"운영 인력 30% 절감입니다.\"", "ja": "「運用人員を30%削減できます。」", "zh": "\"运维人力减少30%。\""}, "qa3_s": {"en": "← The one point you gave that slide", "ko": "← 그 장에 직접 정한 한마디", "ja": "← そのページに決めた一点", "zh": "← 你给那一页定的那一个点"}, "case_eyebrow": {"en": "Case study", "ko": "도입 사례", "ja": "導入事例", "zh": "客户案例"}, "case_title": {"en": "<span class=\"text-accent\">59%</span> more contract value in four quarters.", "ko": "도입 후 4개 분기 만에 수주 금액 <span class=\"text-accent\">59%</span> 증가.", "ja": "導入後4四半期で受注金額<span class=\"text-accent\">59%</span>増。", "zh": "四个季度内合同金额增长<span class=\"text-accent\">59%</span>。"}, "case_p": {"en": "The four quarters after rollout (Q3 2025–Q2 2026) vs. the same quarters a year earlier, from their bid dashboard. They bid more, focused on the ones they could win, and both win rate and contract value climbed.", "ko": "도입 후 4개 분기(2025 Q3–2026 Q2)를 전년 같은 분기와 비교, 입찰 실적 대시보드 기준. 더 많이 투찰하고 이길 수 있는 건에 집중해 승률과 수주 금액이 함께 올랐습니다.", "ja": "導入後の4四半期（2025年Q3〜2026年Q2）を前年同期と比較。より多く入札し、勝てる案件に集中した結果、勝率と受注金額がともに上昇。※同社の入札管理ダッシュボードのデータに基づく", "zh": "上线后四个季度（2025 Q3–2026 Q2）与上年同期对比，数据来自其投标看板。投得更多、专注能赢的标，中标率和合同金额一起上升。"}, "case_note": {"en": "Named top project at Company T's internal \"Sales Guru\" showcase and held up company-wide as the flagship AI case. <span class=\"text-zinc-400\">(Platum, Aug 2025)</span>", "ko": "T사 사내 세일즈 박람회 \"Sales Guru\"에서 전체 프로젝트 1위, 전사 AI 혁신 대표 사례로 소개. <span class=\"text-zinc-400\">(플래텀, 2025.08)</span>", "ja": "T社の社内セールス発表会「Sales Guru」で全プロジェクト1位、全社のAI活用代表事例として紹介。<span class=\"text-zinc-400\">（Platum、2025年8月）</span>", "zh": "在T公司内部\"Sales Guru\"销售展示会上获评第一，并作为全公司AI标杆案例推广。<span class=\"text-zinc-400\">（Platum，2025年8月）</span>"}, "k1": {"en": "Bids submitted", "ko": "투찰 건수", "ja": "入札件数", "zh": "投标数"}, "k2": {"en": "Bids won", "ko": "낙찰 건수", "ja": "受注件数", "zh": "中标数"}, "k3": {"en": "Win rate", "ko": "승률", "ja": "勝率", "zh": "中标率"}, "k4": {"en": "Contract value", "ko": "수주 금액", "ja": "受注金額", "zh": "合同金额"}, "k4s": {"en": "Four quarters vs. prior year", "ko": "4개 분기, 전년 대비", "ja": "4四半期、前年比", "zh": "四个季度，同比"}, "join_eyebrow": {"en": "Early access", "ko": "얼리 액세스", "ja": "アーリーアクセス", "zh": "抢先体验"}, "join_title": {"en": "Access opens in order.<br>Get in line early.", "ko": "신청 순서대로 초대드립니다.<br>지금 바로 이메일 입력해주세요", "ja": "登録順にご招待します。<br>今すぐメールアドレスをご登録ください。", "zh": "按报名顺序邀请。<br>现在就填上邮箱。"}, "join_sub": {"en": "We open <span data-batch>25</span> seats a week, first come first served. Members get 3 invites — an invite moves you to the front.", "ko": "매주 <span data-batch>25</span>분께 선착순으로 초대드립니다. 가입하신 뒤 추가 초대장 3장을 드립니다.", "ja": "毎週<span data-batch>25</span>チームずつ、先着順にご案内します。ご利用開始後、同僚の方を招待できる招待コードを3つお送りします。", "zh": "每周按先后顺序邀请<span data-batch>25</span>位。加入后，再送你3张邀请函。"}, "faq1_q": {"en": "Will it match our design?", "ko": "우리 회사 디자인 그대로 나오나요?", "ja": "自社のデザインで出力されますか？", "zh": "会用我们自己的设计吗？"}, "faq1_a": {"en": "Yes. Contrl builds on your existing design system — the layouts, diagrams, and language from your past proposals — and exports to PowerPoint (.pptx). Every page comes with speaker notes and source citations.", "ko": "네. 과거 제안서의 레이아웃·도식·표현을 그대로 쓰는 디자인 시스템 위에서 만들고, PowerPoint(.pptx)로 내보냅니다. 장마다 발표 스크립트와 근거 출처가 함께 나옵니다.", "ja": "はい。過去の提案書のレイアウト・図・表現を活かした自社デザインシステムで作成し、PowerPoint（.pptx）で出力します。各ページに発表者ノートと出典（根拠資料）が付きます。", "zh": "是的。Contrl基于你们现有的设计系统——过往提案的版式、图表和用语——并导出为PowerPoint（.pptx）。每一页都附带讲稿和资料来源。"}, "faq2_q": {"en": "What about our data?", "ko": "데이터 보안은요?", "ja": "データの取り扱いは安全ですか？", "zh": "我们的数据安全吗？"}, "faq2_a": {"en": "Your files never leave your machine. Nothing gets uploaded to the cloud, and nothing about your proposals is shared outside your company.", "ko": "파일은 사용자 컴퓨터를 벗어나지 않습니다. 클라우드에 올라가지 않고, 제안서 내용이 회사 밖으로 나가지 않습니다.", "ja": "ファイルがお使いのPCの外に出ることはありません。クラウドにアップロードされず、提案内容が社外に共有されることもありません。", "zh": "你的文件不会离开你的电脑。不上传云端，提案内容也不会被分享到公司之外。"}, "faq3_q": {"en": "Who's this for?", "ko": "누구를 위한 제품인가요?", "ja": "どのような方に向いていますか？", "zh": "这是给谁用的？"}, "faq3_a": {"en": "Anyone who writes bids and proposals — especially the team lead who ends up rewriting whatever AI (or the new hire) produced. You make the calls. Contrl does the writing.", "ko": "입찰 제안서를 쓰는 누구나. 특히 AI나 신입이 만든 걸 결국 다시 쓰게 되는 팀장님께 맞습니다. 결정은 사람이, 작성은 Contrl이 합니다.", "ja": "入札・提案書を書くすべての人へ。特に、AIや新人が作ったものを結局書き直すことになるチームリーダーに。決めるのはあなた、書くのはContrl。", "zh": "所有写标书和提案的人——尤其是那个最后得把AI（或新人）写的东西重写一遍的团队负责人。你做决定，Contrl来写。"}, "faq4_q": {"en": "When does access open?", "ko": "언제 쓸 수 있나요?", "ja": "いつから利用できますか？", "zh": "什么时候能用？"}, "faq4_a": {"en": "In order of signup, <span data-batch>25</span> teams a week. You'll get your spot number when you join and an email when your seat opens. If someone inside sends you an invite, you move to the front.", "ko": "신청 순서대로 매주 <span data-batch>25</span>팀씩 엽니다. 등록하면 순번을 받고, 자리가 열리면 메일로 알려 드립니다. 이미 쓰고 있는 멤버가 초대하면 맨 앞으로 갑니다.", "ja": "登録順に毎週<span data-batch>25</span>チームずつ開放します。登録時に順番をお知らせし、ご案内の準備が整い次第、メールでお知らせします。利用中のメンバーから招待があれば、優先的にご案内します。", "zh": "按报名顺序，每周<span data-batch>25</span>个团队。加入时会告诉你排位序号，名额开放时发邮件通知。如果有内部成员邀请你，就直接排到最前面。"}, "footer_tag": {"en": "You make the decisions. AI writes on your behalf.", "ko": "사람이 정하고, 나머지는 AI가 씁니다.", "ja": "あなたが決め、残りはAIが書く。", "zh": "你来决定，剩下的AI来写。"}, "ph_email": {"en": "Email", "ko": "이메일", "ja": "メールアドレス", "zh": "邮箱"}, "ph_invite": {"en": "Invite code", "ko": "초대 코드", "ja": "招待コード", "zh": "邀请码"}, "fix_prompt": {"en": "You are a proposal PM with |20 years| of experience. Cover every evaluation criterion and write |50 slides| with tables and diagrams…", "ko": "너는 |20년 차| 제안 PM이야. 평가항목을 빠짐없이 반영해서, 표와 도식을 넣어 |50장|으로 써 줘…", "ja": "あなたは|20年|のキャリアを持つ提案PMです。評価項目をすべて反映し、表と図を入れて|50ページ|で書いてください…", "zh": "你是一位有|20年|经验的提案PM。覆盖所有评分项，加上表格和图表，写|50页|…"}, "err_generic": {"en": "Something went wrong. Please try again in a moment.", "ko": "문제가 생겼습니다. 잠시 후 다시 시도해 주세요.", "ja": "エラーが発生しました。しばらくしてからもう一度お試しください。", "zh": "出了点问题，请稍后再试。"}, "success_pos": {"en": "You're #{n} in line.", "ko": "대기 명단 {n}번째로 등록됐습니다.", "ja": "ウェイトリスト{n}番目に登録されました。", "zh": "你已加入等候名单，排在第{n}位。"}, "success_inv": {"en": "Your invite moved you to the front.", "ko": "초대 덕분에 맨 앞으로 왔습니다.", "ja": "招待により最前列に移動しました。", "zh": "邀请让你直接排到了最前面。"}, "success_mail": {"en": "Confirmation sent to your inbox.", "ko": "확인 메일을 보내 드렸습니다.", "ja": "確認メールをお送りしました。", "zh": "确认邮件已发送到你的邮箱。"}, "invite_check": {"en": "Check", "ko": "확인", "ja": "確認", "zh": "验证"}, "invite_empty": {"en": "Enter an invite code first.", "ko": "초대 코드를 입력해 주세요.", "ja": "招待コードを入力してください。", "zh": "请先输入邀请码。"}, "invite_none": {"en": "That code isn't recognized. You can still join the regular line.", "ko": "등록된 코드가 아닙니다. 일반 순번으로는 바로 등록할 수 있습니다.", "ja": "登録されていないコードです。通常の順番でご登録いただけます。", "zh": "未找到该邀请码。你仍可按正常顺序加入。"}, "invite_ok": {"en": "Invite accepted — you'll go to the front of the line.", "ko": "유효한 초대 코드입니다. 맨 앞으로 들어갑니다.", "ja": "有効な招待コードです。最前列に入ります。", "zh": "邀请码有效，你将排到最前面。"}, "invite_ignored": {"en": "(The invite code wasn't recognized, so you're in the regular line.)", "ko": "(초대 코드는 등록된 것이 아니라 일반 순번입니다.)", "ja": "（招待コードが無効のため通常の順番です。）", "zh": "（邀请码无效，按正常顺序排队。）"}, "success_dup": {"en": "This email is already on the list — you're #{n}.", "ko": "이미 등록된 이메일입니다. 현재 순번은 {n}번입니다.", "ja": "このメールアドレスは登録済みです。現在の順番は{n}番です。", "zh": "这个邮箱已经在名单上了——你排在第{n}位。"}, "qa_bridge": {"en": "And that thinking walks into the room with you.", "ko": "그 고민이 발표장까지 그대로 따라갑니다.", "ja": "だから、プレゼンでも自分の言葉で説明できます。", "zh": "这些思考，会跟你一起走进答辩现场。"}, "case_company": {"en": "Company T · global scientific instruments", "ko": "T사 · 글로벌 과학기기 기업", "ja": "T社・グローバル科学機器メーカー", "zh": "T公司 · 全球科学仪器企业"}};
+        const META = {"en": {"title": "contrl — You're giving AI too much control", "desc": "AI proposals drift because AI fills in the decisions you should have made first. Contrl flips the order: you make the call, AI writes on your behalf. Join the waitlist."}, "ko": {"title": "contrl — AI에게 너무 많이 맡기고 있습니다", "desc": "사람이 정했어야 할 세 가지를 AI가 먼저 채우니 제안서가 산으로 갑니다. Contrl은 순서를 뒤집습니다: 사람이 정하고, AI가 씁니다. 대기 명단에 등록하세요."}, "ja": {"title": "【公式】Contrl（コントロール）｜判断は人、作成はAIの提案書作成AI", "desc": "Contrlは、提案の方針を担当者が決め、AIが提案書を書き上げる提案書作成AIです。PowerPoint形式で出力。現在、先行登録を受付中です。"}, "zh": {"title": "contrl — 你把太多交给了AI", "desc": "本该由你做的三个决定，AI先替你填了，提案就跑偏了。Contrl反过来：你来决定，AI来写。加入等候名单。"}};
         const LANGS = ['en', 'ko', 'ja', 'zh'];
         function detectLang() {
             const q = new URLSearchParams(location.search).get('lang'); if (LANGS.includes(q)) return q;

diff --git a/tools/demo/og.html b/tools/demo/og.html
@@ -8,7 +8,7 @@ body { width:1200px; height:630px; background:#faf7f2; font-family:'Pretendard',
 .wrap { position:absolute; inset:0; padding:72px 84px; display:flex; flex-direction:column; justify-content:space-between; }
 .logo { font-size:40px; font-weight:800; letter-spacing:-.03em; }
 .logo b { color:#F27A2E; }
-h1 { font-family:'Freesentation','Pretendard',sans-serif; font-weight:800; letter-spacing:-.03em; font-size:84px; line-height:1.04; margin:0; white-space:nowrap; }
+h1 { font-family:'Freesentation','Pretendard',sans-serif; font-weight:800; letter-spacing:-.03em; font-size:70px; line-height:1.08; margin:0; white-space:nowrap; }
 h1 .a { color:#F27A2E; }
 .tag { font-size:30px; color:#52525b; font-weight:500; }
 .tag b { color:#18181b; font-weight:700; }
@@ -17,8 +17,8 @@ h1 .a { color:#F27A2E; }
 <div class="glow"></div>
 <div class="wrap">
   <div class="logo">contrl<b>.</b></div>
-  <h1>You're not using AI too little.<br><span class="a">You're handing it too much.</span></h1>
-  <div class="tag"><b>You make the calls, AI does the writing.</b></div>
+  <h1>You're not underusing AI.<br><span class="a">You're giving it too much control.</span></h1>
+  <div class="tag"><b>You make the call, AI writes on your behalf.</b></div>
 </div>
 <div class="url">contrl.ai</div>
 </body></html>
